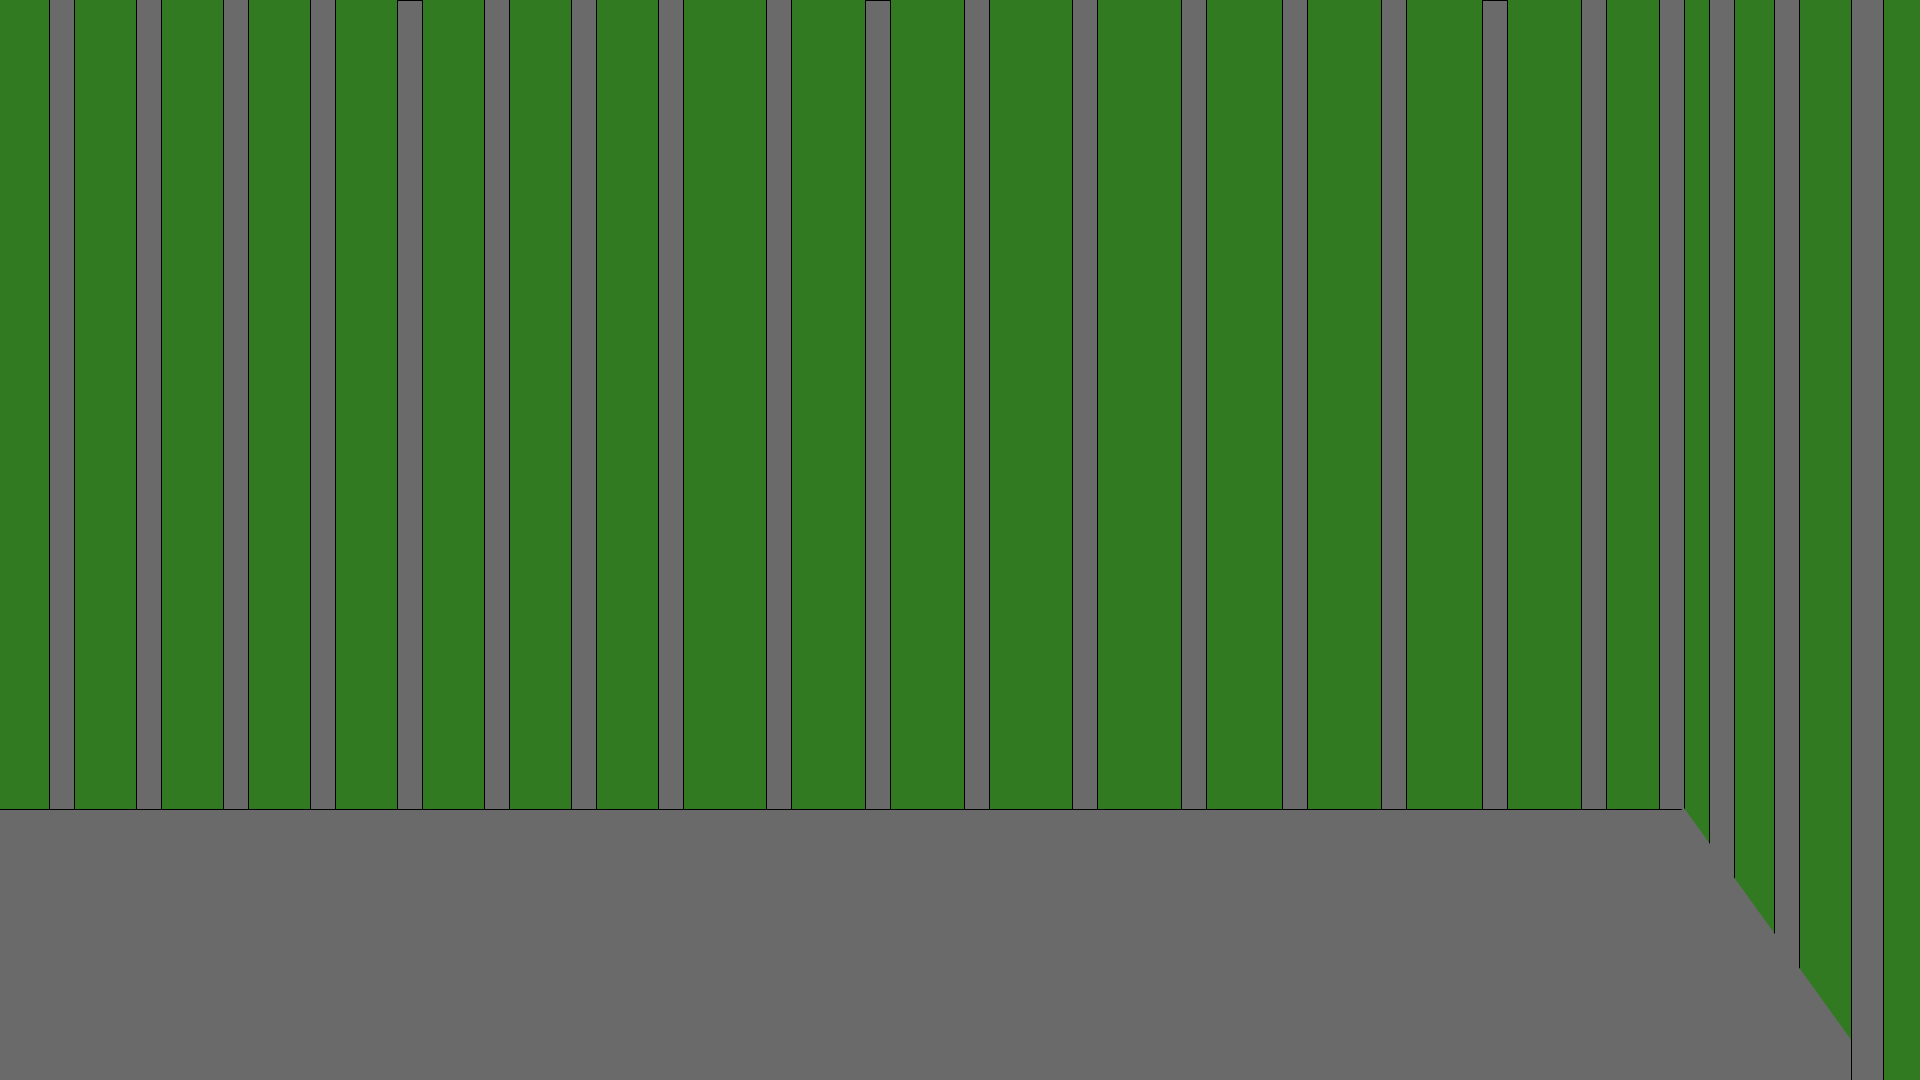
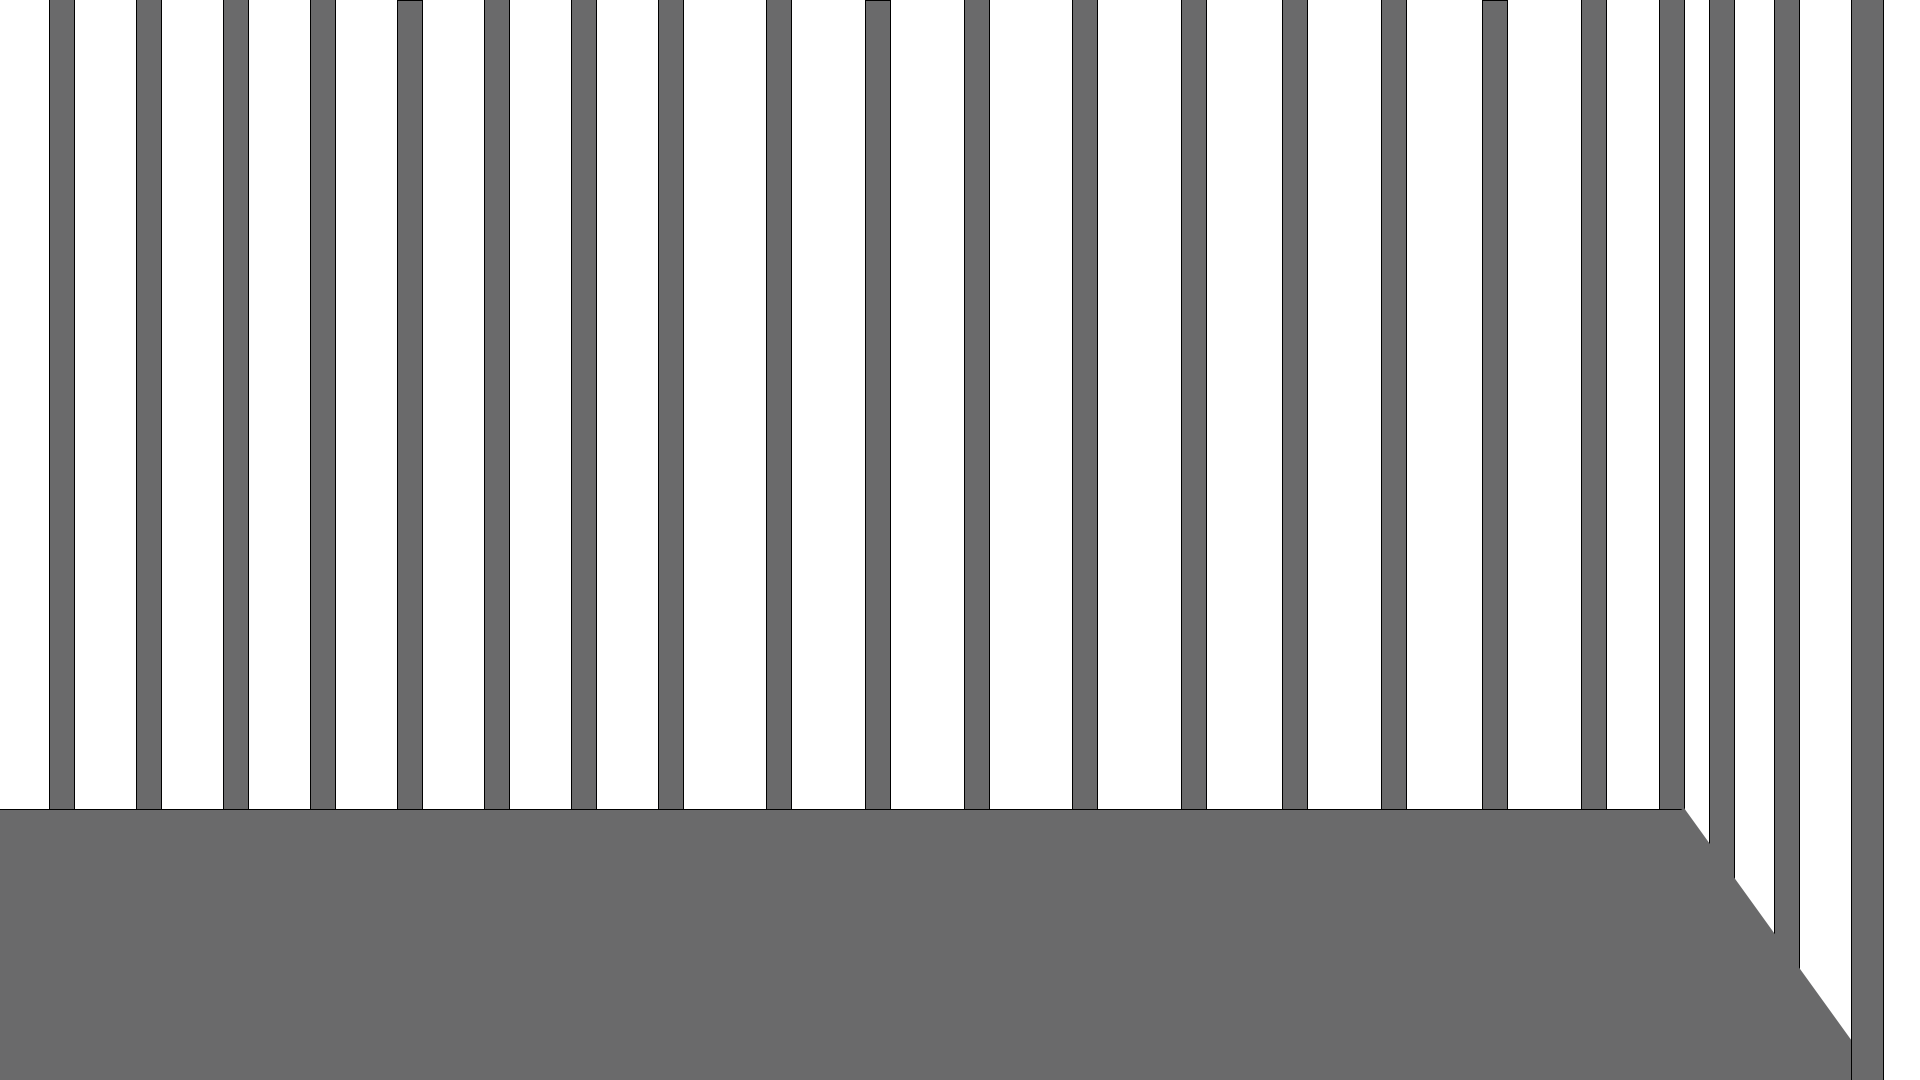
modification background ch3

diff --git a/css/style.css b/css/style.css
@@ -7,6 +7,16 @@
 
     --rouge: #ff0000;
 
+    --mauve: #9f8afd;
+    /*
+    --vert: ;
+    --vin: ;
+    */
+    
+    --brun: #a69a64;
+
+    --grass: #317a22;
+
     --gris-mur: #597081;
     --gris-mur-fonce: #4d6170;
 
@@ -72,7 +82,28 @@ p,
 }
 
 .dialog-jeremiah {
-    color: #9f8afd;
+    color: var(--mauve);
+    text-decoration: underline;
+    text-decoration-style: dotted;
+    /*text-decoration-style: double;*/
+}
+
+.dialog-marco {
+    color: var(--vert);
+    text-decoration: underline;
+    text-decoration-style: dashed;
+    /*text-decoration-style: double;*/
+}
+
+.dialog-monika {
+    color: var(--vin);
+    text-decoration: underline;
+    text-decoration-style: double;
+    /*text-decoration-style: double;*/
+}
+
+.dialog-guard {
+    color: var(--brun);
     text-decoration: underline;
     text-decoration-style: dotted;
     /*text-decoration-style: double;*/
@@ -381,11 +412,53 @@ section {
     left: 17%;
     top: 54%;
 }
+
+.ch1-line4{
+    left: 35%;
+    top: 54%;
+}
+
+.ch1-line5{
+    left: 35%;
+    top: 60%;
+}
+
+.ch1-line6{
+    margin: 0% 10%;
+}
+
+
 .setting-ch1 {
     position: absolute;
     left: 0;
     height: auto;
     width: 100%;
+    z-index: 1;
+
+    /*background-image: url(/img/img_arriere_plan/scene_ch1.png);*/
+
+    /*background-color: var(--blanc);*/
+}
+
+.bg-noir-ch1 {
+    position: absolute;
+    left: 0;
+    height: 100%;
+    width: 100%;
+    z-index: 9;
+    opacity: 0;
+
+    display: flex;
+    align-items: center;
+    justify-content: center;
+
+    /*background-image: url(/img/img_arriere_plan/scene_ch1.png);*/
+
+    background-color: var(--noir);
+}
+
+.setting-ch1-fin {
+    opacity: 0;
     z-index: 1;
 
     /*background-image: url(/img/img_arriere_plan/scene_ch1.png);*/
@@ -648,6 +721,10 @@ section {
 }
 
 /*Chapitre 3*/
+
+.ch3{
+    background-color: var(--grass);
+}
 
 .setting-ch3 {
     position: absolute;

diff --git a/index.html b/index.html
@@ -38,6 +38,10 @@
                 <h3 class="dialog dialog-jeremiah ch1-line1"></h3>
                 <h3 class="dialog dialog-jeremiah ch1-line2"></h3>
                 <h3 class="dialog dialog-jeremiah ch1-line3 h2">Maintenant!</h3>
+
+                <h3 class="dialog dialog-guard ch1-line4"></h3>
+                <h3 class="dialog dialog-guard ch1-line5"></h3>
+
                 <div class="spritesheet-jeremiah ss-j-ch1 jeremiah-course">
                     
                 </div>
@@ -72,10 +76,12 @@
                 </div>
                 <div class="spritesheet-robot ss-robot-3 robot-revole robot-revole-3"></div>
                 
-
-                <img src="img/img_arriere_plan/scene_ch1_alt.png" class="setting-ch1">
-                <img src="img/img_arriere_plan/scene_ch1_alt.png" class="setting-ch1 setting-ch1-fin">
-                <div class="bg-noir-ch4"></div>
+                <div class="explosion-ch1"></div>
+                <img src="img/img_arriere_plan/scene_ch1_alt.png" class="setting-ch1 setting-ch1-debut">
+                <img src="img/img_arriere_plan/scene_ch1_fin.png" class="setting-ch1 setting-ch1-fin">
+                <div class="bg-noir-ch1">
+                    <h4 class="h2 ch1-line6"></h4>
+                </div>
                 <div class="background-nom-chapitre bnc1">
                     <h1 class="num-chap-1"></h1>
                     <h1 class="nom-chap-1"></h1>
@@ -147,6 +153,7 @@
                 <div class="spritesheet-garde garde-idle"></div>
 
                 <img src="img/img_arriere_plan/scene_ch3.png" class="setting-ch3">
+                <img src="img/img_arriere_plan/scene_ch3_foreground.png" class="setting-ch3 setting-ch3-foreground">
                 <div class="background-nom-chapitre bnc3">
                     <h1 class="num-chap-3"></h1>
                     <h1 class="nom-chap-3"></h1>

diff --git a/script/script.js b/script/script.js
@@ -161,6 +161,9 @@ gsap.timeline({scrollTrigger: {
     .to(".tire-robot", { duration: 0.2, x: "-2400%", y: "-600%", ease: "none", })
     .to(".tire-robot", { duration: 0, opacity: 0, ease: "none", })
 
+    .to(".setting-ch1-debut", { duration: 0, opacity: 0, ease: "none", })
+    .to(".setting-ch1-fin", { duration: 0, opacity: 1, ease: "none", })
+
 
     .to(".jeremiah-pret", { duration: 0, opacity: 0, ease: "none", delay: -0.1 })
     .to(".jeremiah-course", { duration: 0, scaleX: 1, opacity: 1, ease: "none", delay: -0.1 })
@@ -203,6 +206,14 @@ gsap.timeline({scrollTrigger: {
 
     .to(".robot-revole-3", { duration: 0, opacity: 0, ease: "none", delay: -0.2 })
     .to(".robot-idle-3", { duration: 0, opacity: 1, ease: "none", delay: -0.2 })
+
+    .to(".ch1-line4", { text: "Des intrus ont détruit la porte!", ease: "none", delay: 0.1 })
+    .to(".ch1-line5", { text: "Gardes, attrapez-les!", ease: "none" })
+
+    .to(".bg-noir-ch1", { opacity: 1, ease: "none"})
+
+    .to(".ch1-line6", { text: "Jeremiah et son mystérieux sauveur furent capturés par les habitants de Vault Blank", ease: "none", delay: 0.1 })
+    //.to(".ch1-line5", { text: "Gardes, attrapez-les!", ease: "none" })
 
 
 //chapitre 2
